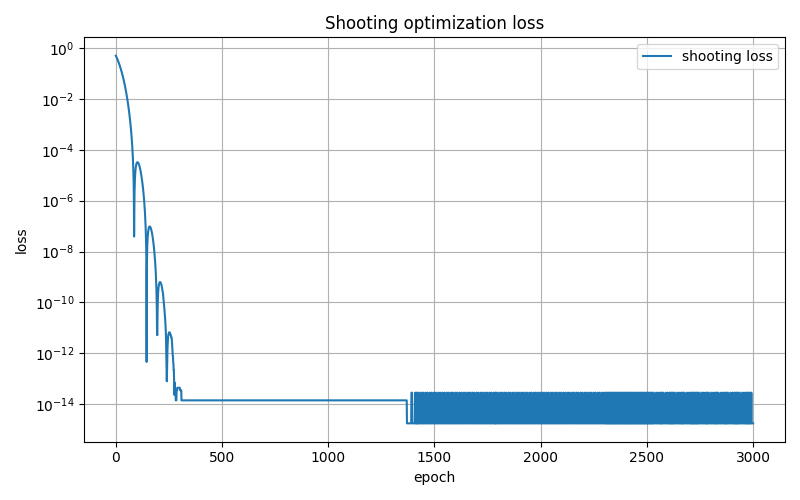
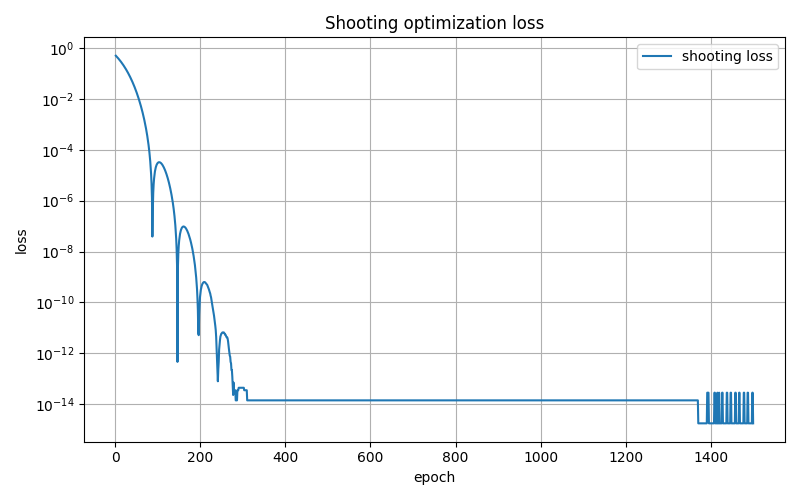
add Lograngian

diff --git a/physics/lagrangian.py b/physics/lagrangian.py
@@ -1,0 +1,72 @@
+import torch
+
+
+def gradients(y, x):
+    """
+    dy/dx trough autograd.
+    """
+    return torch.autograd.grad(
+        y, x, grad_outputs=torch.ones_like(y), create_graph=True, retain_graph=True
+    )[0]
+
+
+def trajectory_and_velocity(model, t):
+    """
+    return:
+    x, y, vx, vy
+    """
+    pred = model(t)
+
+    x = pred[:, 0:1]
+    y = pred[:, 1:2]
+
+    vx = gradients(x, t)
+    vy = gradients(y, t)
+
+    return x, y, vx, vy
+
+
+def lagrangian_density(x, y, vx, vy, q, m, Bz):
+    """
+    Lagrangian:
+        L = (m/2)(vx^2 + vy^2) + (q Bz / 2)(x vy - y vx)
+    """
+    kinetic = 0.5 * m * (vx**2 + vy**2)
+    magnetic = 0.5 * q * Bz * (x * vy - y * vx)
+
+    return kinetic + magnetic
+
+
+def euler_lagrange_residual(model, t, q, m, Bz):
+    """
+    Remains of the Euler–Lagrange equations:
+        d/dt(∂L/∂vx) - ∂L/∂x = 0
+        d/dt(∂L/∂vy) - ∂L/∂y = 0
+    """
+    x, y, vx, vy = trajectory_and_velocity(model, t)
+
+    L = lagrangian_density(x, y, vx, vy, q=q, m=m, Bz=Bz)
+
+    dL_dx = torch.autograd.grad(
+        L, x, grad_outputs=torch.ones_like(L), create_graph=True, retain_graph=True
+    )[0]
+
+    dL_dy = torch.autograd.grad(
+        L, y, grad_outputs=torch.ones_like(L), create_graph=True, retain_graph=True
+    )[0]
+
+    dL_dvx = torch.autograd.grad(
+        L, vx, grad_outputs=torch.ones_like(L), create_graph=True, retain_graph=True
+    )[0]
+
+    dL_dvy = torch.autograd.grad(
+        L, vy, grad_outputs=torch.ones_like(L), create_graph=True, retain_graph=True
+    )[0]
+
+    dt_dL_dvx = gradients(dL_dvx, t)
+    dt_dL_dvy = gradients(dL_dvy, t)
+
+    res_x = dt_dL_dvx - dL_dx
+    res_y = dt_dL_dvy - dL_dy
+
+    return res_x, res_y

diff --git a/training/trainer.py b/training/trainer.py
@@ -1,6 +1,7 @@
 import os
 import torch
 from physics.lorentz import physics_residual
+from physics.lagrangian import euler_lagrange_residual
 
 
 class Trainer:
@@ -35,9 +36,19 @@ class Trainer:
         return loss_start + loss_end
 
     def physics_loss(self, t):
-        res_x, res_y = physics_residual(
-            self.model, t, self.cfg.q, self.cfg.m, self.cfg.Bz
-        )
+        if self.cfg.physics_mode == "newton":
+            res_x, res_y = physics_residual(
+                self.model, t, self.cfg.q, self.cfg.m, self.cfg.Bz
+            )
+        elif self.cfg.physics_mode == "lagrangian":
+            res_x, res_y = euler_lagrange_residual(
+                self.model, t, self.cfg.q, self.cfg.m, self.cfg.Bz
+            )
+        else:
+            raise ValueError(
+                f"Unknown physics_mode: {self.cfg.physics_mode}. "
+                f"Use 'newton' or 'lagrangian'."
+            )
 
         return torch.mean(res_x**2) + torch.mean(res_y**2)
 
@@ -55,6 +66,8 @@ class Trainer:
         tT = torch.tensor(
             [[self.cfg.T]], dtype=torch.float32, device=device, requires_grad=True
         )
+
+        self._log(f"Physics mode: {self.cfg.physics_mode}")
 
         for epoch in range(1, self.cfg.epochs + 1):
             self.optimizer.zero_grad()

diff --git a/config.py b/config.py
@@ -26,18 +26,21 @@ class Config:
 
     # PINN training
     lr = 1e-3
-    epochs = 7500
+    epochs = 8500
     collocation_points = 256
 
     # loss weights
     bc_weight = 100.0
     phys_weight = 1.0
 
+    # newton or lagrangian
+    physics_mode = "lagrangian"
+
     # logging
     print_every = 500
 
     # shooting method
     shooting_lr = 1e-2
-    shooting_epochs = 1800
+    shooting_epochs = 1500
     shooting_steps = 400
     shooting_print_every = 300

diff --git a/main.py b/main.py
@@ -45,6 +45,7 @@ def main():
     cfg.device = device
 
     print(f"device: {device}")
+    print(f"physics_mode: {cfg.physics_mode}")
 
     os.makedirs("results", exist_ok=True)
 
